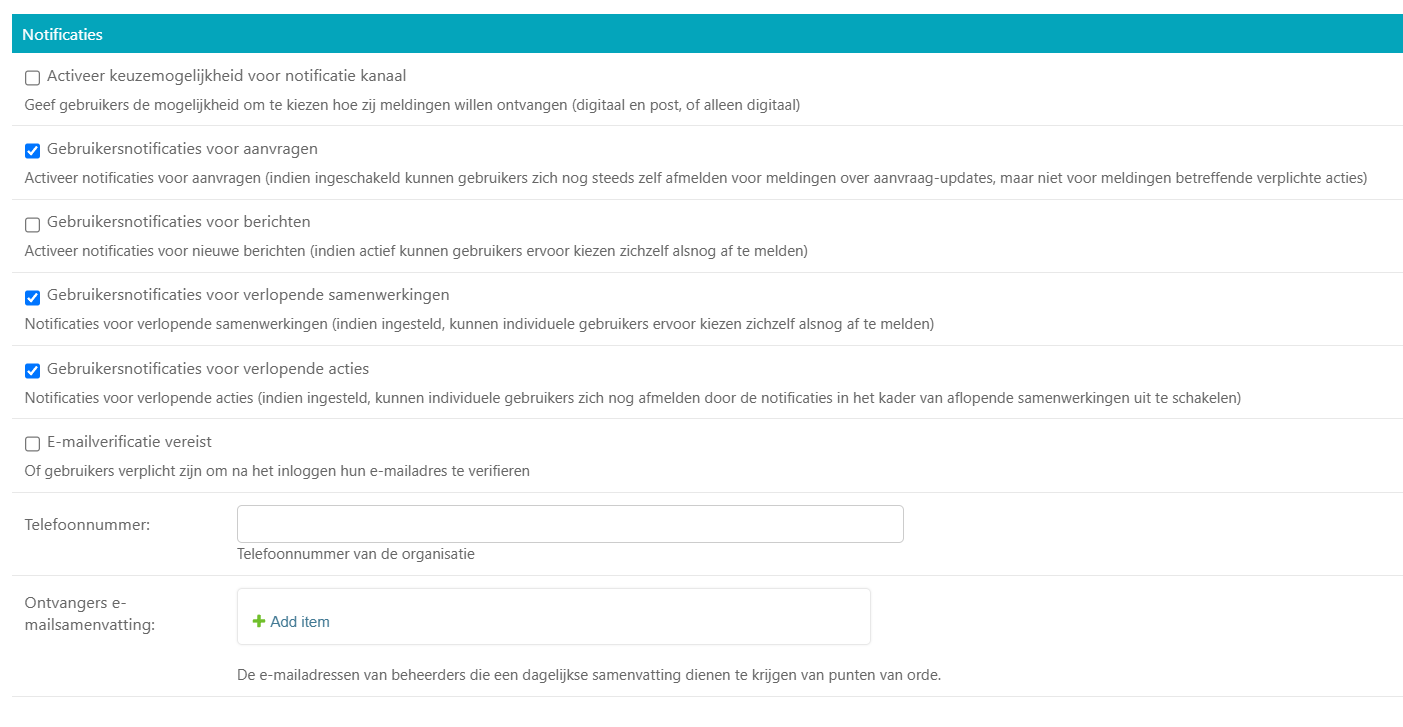
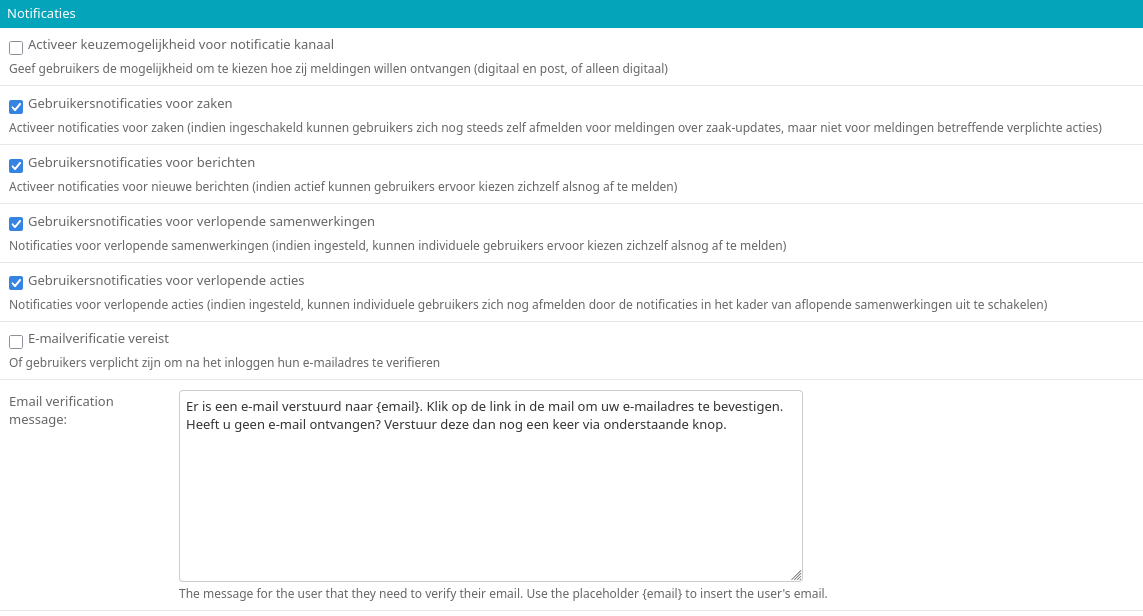
feat: make email verification message configurable
Refs: https://taiga.maykinmedia.nl/project/open-inwoner/issue/3186

diff --git a/src/open_inwoner/configurations/tests/test_admin.py b/src/open_inwoner/configurations/tests/test_admin.py
@@ -14,12 +14,13 @@ from django_webtest import WebTest
 from maykin_2fa.test import disable_admin_mfa
 
 from open_inwoner.accounts.tests.factories import UserFactory
-from open_inwoner.configurations.admin import (
+
+from ..admin import (
     SiteConfigurationAdmin,
     SiteConfigurationAdminForm,
 )
-from open_inwoner.configurations.models import SiteConfiguration
-from open_inwoner.configurations.validators import validate_javascript_file
+from ..models import SiteConfiguration
+from ..validators import validate_javascript_file
 
 
 @disable_admin_mfa()
@@ -32,6 +33,7 @@ class TestAdminSite(WebTest):
 
     def test_site_add_prevented_if_one_exists(self):
         """Test that adding a site is prevented if one already exists."""
+        # Make sure we have exactly one site
         initial_site_count = Site.objects.count()
         self.assertEqual(initial_site_count, 1)
 
@@ -50,13 +52,16 @@ class TestAdminSite(WebTest):
             reverse("admin:sites_site_change", args=[site.pk]), user=self.user
         )
 
+        # Verify the delete button is not present (text or link)
         self.assertNotIn("Delete", response.text)
         delete_url = reverse("admin:sites_site_delete", args=[site.pk])
         self.assertNotIn(delete_url, response.text)
 
+        # Try to access the delete page directly - should return 403 Forbidden
         response = self.app.get(delete_url, user=self.user, expect_errors=True)
         self.assertEqual(response.status_code, 403)
 
+        # Verify the site still exists
         self.assertTrue(Site.objects.filter(pk=site.pk).exists())
 
 
@@ -74,6 +79,9 @@ class TestAdminForm(WebTest):
         self.form["secondary_font_color"] = "#FFFFFF"
         self.form["accent_color"] = "#FFFFFF"
         self.form["accent_font_color"] = "#FFFFFF"
+        # django-jsonform requires JS to work properly and with Webtest the default
+        # value for ArrayFields is an empty string, causing it crash to when trying to parse
+        # that value as JSON
         self.form["recipients_email_digest"] = "[]"
 
     def test_valid_path_is_saved(self):
@@ -84,6 +92,7 @@ class TestAdminForm(WebTest):
         self.form.submit()
 
         config.refresh_from_db()
+
         self.assertEqual(config.redirect_to, "/accounts/login/")
 
     def test_invalid_path_is_not_saved(self):
@@ -94,6 +103,7 @@ class TestAdminForm(WebTest):
         response = self.form.submit()
 
         config.refresh_from_db()
+
         self.assertIsNone(config.redirect_to)
         self.assertEqual(
             response.context["errors"], [[_("The entered path is invalid.")]]
@@ -107,6 +117,7 @@ class TestAdminForm(WebTest):
         self.form.submit()
 
         config.refresh_from_db()
+
         self.assertEqual(config.redirect_to, "https://www.example.com")
 
     def test_invalid_url_is_not_saved(self):
@@ -117,10 +128,27 @@ class TestAdminForm(WebTest):
         response = self.form.submit()
 
         config.refresh_from_db()
+
         self.assertIsNone(config.redirect_to)
         self.assertEqual(
             response.context["errors"], [[_("The entered url is invalid.")]]
         )
+
+    def test_email_verification_requires_message(self):
+        """Test that email verification requires a message."""
+        config = SiteConfiguration.get_solo()
+
+        self.form["email_verification_required"] = True
+        self.form["email_verification_message"] = ""
+        response = self.form.submit()
+
+        self.assertIn(
+            "Email verification message cannot be empty if email verification is required",
+            response.text,
+        )
+
+        config.refresh_from_db()
+        self.assertFalse(config.email_verification_required)
 
 
 class CustomJavaScriptValidatorTests(TestCase):

diff --git a/src/open_inwoner/configurations/admin.py b/src/open_inwoner/configurations/admin.py
@@ -1,5 +1,4 @@
 import logging
-from urllib.parse import urlparse
 
 from django import forms
 from django.conf import settings
@@ -7,8 +6,11 @@ from django.contrib import admin, messages
 from django.contrib.flatpages.admin import FlatPageAdmin
 from django.contrib.sites.admin import SiteAdmin
 from django.contrib.sites.models import Site
+from django.core import exceptions
 from django.core.exceptions import ValidationError
-from django.urls import Resolver404, resolve
+from django.core.validators import URLValidator
+from django.urls import resolve
+from django.urls.exceptions import Resolver404
 from django.utils.html import format_html, format_html_join
 from django.utils.translation import gettext_lazy as _
 
@@ -94,21 +96,20 @@ class SiteConfigurationAdminForm(forms.ModelForm):
         return custom_javascript
 
     def clean_redirect_to(self):
-        """Validate redirect_to field"""
-        redirect_to = self.cleaned_data.get("redirect_to")
+        redirect_to = self.cleaned_data["redirect_to"]
 
         if redirect_to:
-            # Check if it's a valid internal path
             if redirect_to.startswith("/"):
                 try:
                     resolve(redirect_to)
                 except Resolver404:
                     raise ValidationError(_("The entered path is invalid.")) from None
             else:
-                # Check if it's a valid URL
-                parsed = urlparse(redirect_to)
-                if not (parsed.scheme and parsed.netloc):
-                    raise ValidationError(_("The entered url is invalid."))
+                validate_url = URLValidator()
+                try:
+                    validate_url(redirect_to)
+                except exceptions.ValidationError:
+                    raise ValidationError(_("The entered url is invalid.")) from None
 
         return redirect_to
 
@@ -251,6 +252,7 @@ class SiteConfigurationAdmin(OrderedInlineModelAdminMixin, SingletonModelAdmin):
                     "notifications_plans_enabled",
                     "notifications_actions_enabled",
                     "email_verification_required",
+                    "email_verification_message",
                     "contact_phonenumber",
                     "contact_page",
                     "recipients_email_digest",
@@ -498,7 +500,6 @@ class SiteConfigurationAdmin(OrderedInlineModelAdminMixin, SingletonModelAdmin):
         )
 
     def save_model(self, request, obj, form, change):
-        """Override save to report contrast ratio"""
         super().save_model(request, obj, form, change)
         self.report_contrast_ratio(request, obj)
 

diff --git a/src/open_inwoner/accounts/views/registration.py b/src/open_inwoner/accounts/views/registration.py
@@ -13,14 +13,15 @@ from django.views.generic import TemplateView, UpdateView
 from django_registration.backends.one_step.views import RegistrationView
 from furl import furl
 
+from open_inwoner.configurations.models import SiteConfiguration
 from open_inwoner.openklant.constants import KlantenServiceType
 from open_inwoner.openklant.models import KlantenSysteemConfig
 from open_inwoner.openklant.services import OpenKlant2Service, eSuiteKlantenService
 from open_inwoner.openklant.types import PartijUpdateData
+from open_inwoner.utils.text import html_tag_wrap_format
 from open_inwoner.utils.views import CommonPageMixin, LogMixin
 
 from ...mail.verification import send_user_email_verification_mail
-from ...utils.text import html_tag_wrap_format
 from ...utils.url import get_next_url_from
 from ..forms import CustomRegistrationForm, NecessaryUserForm
 from ..models import Invite, OpenIDDigiDConfig, OpenIDEHerkenningConfig, User
@@ -262,12 +263,9 @@ class EmailVerificationUserView(LogMixin, LoginRequiredMixin, TemplateView):
 
     def get_context_data(self, **kwargs):
         ctx = super().get_context_data(**kwargs)
-        text = _(
-            "Er is een e-mail verstuurd naar {email}. Klik op de link in de mail om uw e-mailadres te bevestigen. "
-            "Heeft u geen e-mail ontvangen? Verstuur deze dan nog een keer via onderstaande knop."
-        )
+        config = SiteConfiguration.get_solo()
         ctx["verification_text"] = html_tag_wrap_format(
-            text, "strong", email=self.request.user.email
+            config.email_verification_message, "strong", email=self.request.user.email
         )
         ctx["button_text"] = _("Verstuur de e-mail opnieuw")
 

diff --git a/src/open_inwoner/configurations/models.py b/src/open_inwoner/configurations/models.py
@@ -1,6 +1,7 @@
 import os
 
 from django.conf import settings
+from django.core.exceptions import ValidationError
 from django.core.validators import FileExtensionValidator
 from django.db import models
 from django.db.models.signals import post_save
@@ -431,6 +432,19 @@ class SiteConfiguration(SingletonModel):
         default=False,
         help_text=_("Whether to require users to verify their email address"),
     )
+    email_verification_message = models.TextField(
+        verbose_name=_("Email verification message"),
+        blank=True,
+        default=_(
+            "Er is een e-mail verstuurd naar {email}. Klik op de link in de mail om uw "
+            "e-mailadres te bevestigen. Heeft u geen e-mail ontvangen? Verstuur deze dan nog een "
+            "keer via onderstaande knop."
+        ),
+        help_text=_(
+            "The message for the user that they need to verify their email. Use the placeholder "
+            "{email} to insert the user's email."
+        ),
+    )
 
     # contact info
     contact_phonenumber = models.CharField(
@@ -663,6 +677,16 @@ class SiteConfiguration(SingletonModel):
 
     class Meta:
         verbose_name = _("Site Configuration")
+
+    def clean(self):
+        super().clean()
+
+        if self.email_verification_required and not self.email_verification_message:
+            raise ValidationError(
+                _(
+                    "Email verification message cannot be empty if email verification is required"
+                )
+            )
 
     def __str__(self):
         return str(_("Site Configuration"))

diff --git a/src/open_inwoner/mail/tests/test_verification.py b/src/open_inwoner/mail/tests/test_verification.py
@@ -247,7 +247,7 @@ class TestMailVerificationMiddlewareFlow(WebTest):
         config.email_verification_required = True
         config.save()
 
-        self.app.get(self.url, user=user, status=200)
+        response = self.app.get(self.url, user=user, status=200)
 
     @patch(
         "open_inwoner.accounts.views.registration.send_user_email_verification_mail",
@@ -255,6 +255,9 @@ class TestMailVerificationMiddlewareFlow(WebTest):
     )
     def test_unverified_user_redirects(self, mock_send):
         config = SiteConfiguration.get_solo()
+        config.email_verification_message = "Test email for {email}"
+        config.save()
+
         user = UserFactory(email="foo@example.com")
         self.assertFalse(user.has_verified_email())
 
@@ -271,6 +274,9 @@ class TestMailVerificationMiddlewareFlow(WebTest):
         self.assertRedirects(response, verify_url)
 
         response = response.follow()
+
+        # email verification text
+        self.assertIn("Test email for <strong>foo@example.com</strong>", response.text)
 
         # email sent immediately on GET
         mock_send.assert_called_once_with(user, "")

diff --git a/src/open_inwoner/configurations/migrations/0084_siteconfiguration_email_verification_message.py b/src/open_inwoner/configurations/migrations/0084_siteconfiguration_email_verification_message.py
@@ -1,0 +1,22 @@
+# Generated by Django 4.2.22 on 2025-09-08 12:58
+
+from django.db import migrations, models
+
+
+class Migration(migrations.Migration):
+    dependencies = [
+        ("configurations", "0083_custom_javascript"),
+    ]
+
+    operations = [
+        migrations.AddField(
+            model_name="siteconfiguration",
+            name="email_verification_message",
+            field=models.TextField(
+                blank=True,
+                default="Er is een e-mail verstuurd naar {email}. Klik op de link in de mail om uw e-mailadres te bevestigen. Heeft u geen e-mail ontvangen? Verstuur deze dan nog een keer via onderstaande knop.",
+                help_text="The message for the user that they need to verify their email. Use the placeholder {email} to insert the user's email.",
+                verbose_name="Email verification message",
+            ),
+        ),
+    ]

diff --git a/CHANGELOG.rst b/CHANGELOG.rst
@@ -13,8 +13,8 @@ Deployment aandachtspunten
 Nieuwe features
 ---------------
 
-* [:taiga-us:`3370`, :pr:`1888`]: Navigatiemenu-items correct weergegeven op verschillende schermbreedtes;
-  ``@gemeente-denhaag/side-navigation`` bijgewerkt naar ``4.0.2``, waardoor notificatiebadges in
+* [:taiga-us:`3370`, :pr:`1888`]: Navigatiemenu-items correct weergegeven op verschillende schermbreedtes; 
+  ``@gemeente-denhaag/side-navigation`` bijgewerkt naar ``4.0.2``, waardoor notificatiebadges in 
   navigatiemenu-items de rode indicator niet meer tonen.
 * [:taiga-us: `3406`, :pr:`1872`]: Het contactformulier wordt omgezet in een CMS-pagina.
   In plaats van één beschrijving heeft het contactformulier nu twee beschrijvingen, één voor
@@ -35,6 +35,8 @@ Nieuwe features
   ``rol__betrokkeneIdentificatie__nietNatuurlijkPersoon__innNnpId``. Deze flag staat
   standaard uit en moet expliciet aangezet worden voor een specifieke API set in het
   beheerscherm. Zie de documentatie onder "Open Zaak" voor verdere informatie.
+* [:taiga-issue: `3816`, :pr: `1865`]: Het e-mailverificatiebericht voor nieuwe gebruikers
+  is nu configureerbaar.
 
 Bugfixes
 --------

diff --git a/docs/beheerhandleiding/04_gebruikersprofielen.rst b/docs/beheerhandleiding/04_gebruikersprofielen.rst
@@ -174,6 +174,8 @@ Wanneer u in de blauwe balk bij notificaties op [tonen] klikt, krijgt u de mogel
 .. image:: images/Algemeneconfiguratienotificaties.png
    :width: 624px
 
+Het e-mailverificatiebericht voor nieuwe gebruikers is configureerbaar. Als e-mailverificatie vereist is, mag het bericht niet leeg zijn.
+
 
 4.5.6. Contacten - uitnodigingen
 --------------------------------
